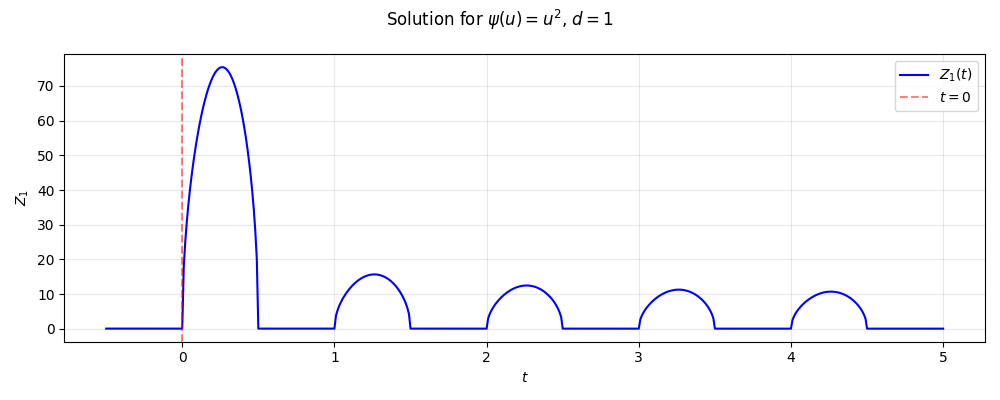
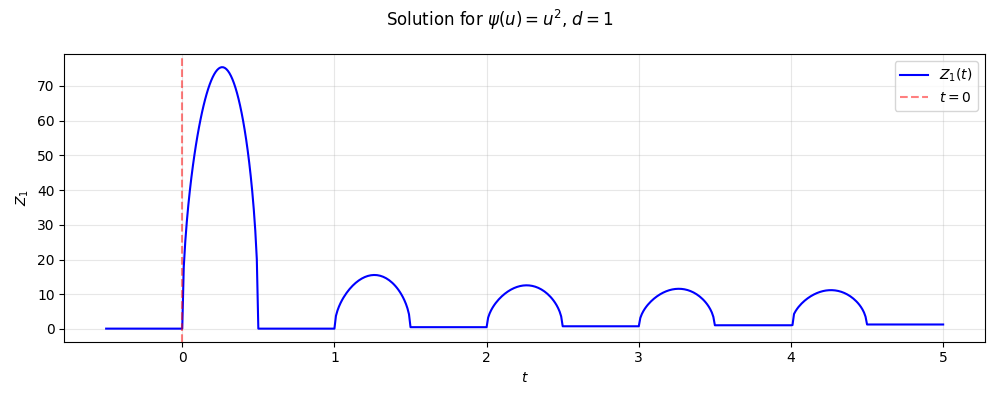
typo

diff --git a/residence_time_opt.py b/residence_time_opt.py
@@ -273,7 +273,7 @@ def main():
 
     # Notre implémentation
     delta_x = 0.01
-    N_x = 60
+    N_x = 600
     
     # Forcing function choice: 'constant', 'oscillating', or 'random'
     forcing_type = 'oscillating'
@@ -284,7 +284,7 @@ def main():
     f_seed = 42
     
     # R_j decay type: 'exponential' or 'power_law'
-    R_decay_type = 'power_law'
+    R_decay_type = 'exponential'
     decay_rate = 0.5      # For exponential decay
     power_exponent = 1.5  # For power law decay
     

diff --git a/residence_time.py b/residence_time.py
@@ -282,7 +282,7 @@ def main():
     f_seed = 42
     
     # R_j decay type: 'exponential' or 'power_law'
-    R_decay_type = 'power_law'
+    R_decay_type = 'exponential'
     decay_rate = 0.5      # For exponential decay
     power_exponent = 1.5  # For power law decay
     
